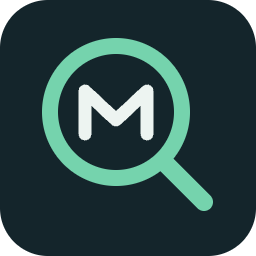
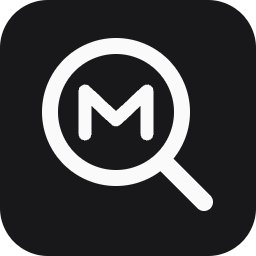
Use charcoal and white for extension branding

Changed region(s): [[0.1562, 0.125, 0.8438, 0.8438]]

diff --git a/CHANGELOG.md b/CHANGELOG.md
@@ -2,7 +2,7 @@
 
 ## 0.11.1
 
-- 拡張機能のロゴを「M＋レンズ」に簡素化し、縮小表示でも判別しやすい形に変更。
+- 拡張機能のロゴをチャコールと白の「M＋レンズ」に簡素化。Marketplaceバナーも同じチャコールに統一。
 
 - 詳細比較アイコンを左右の矢印に変更し、18pxの線画に統一。
 
